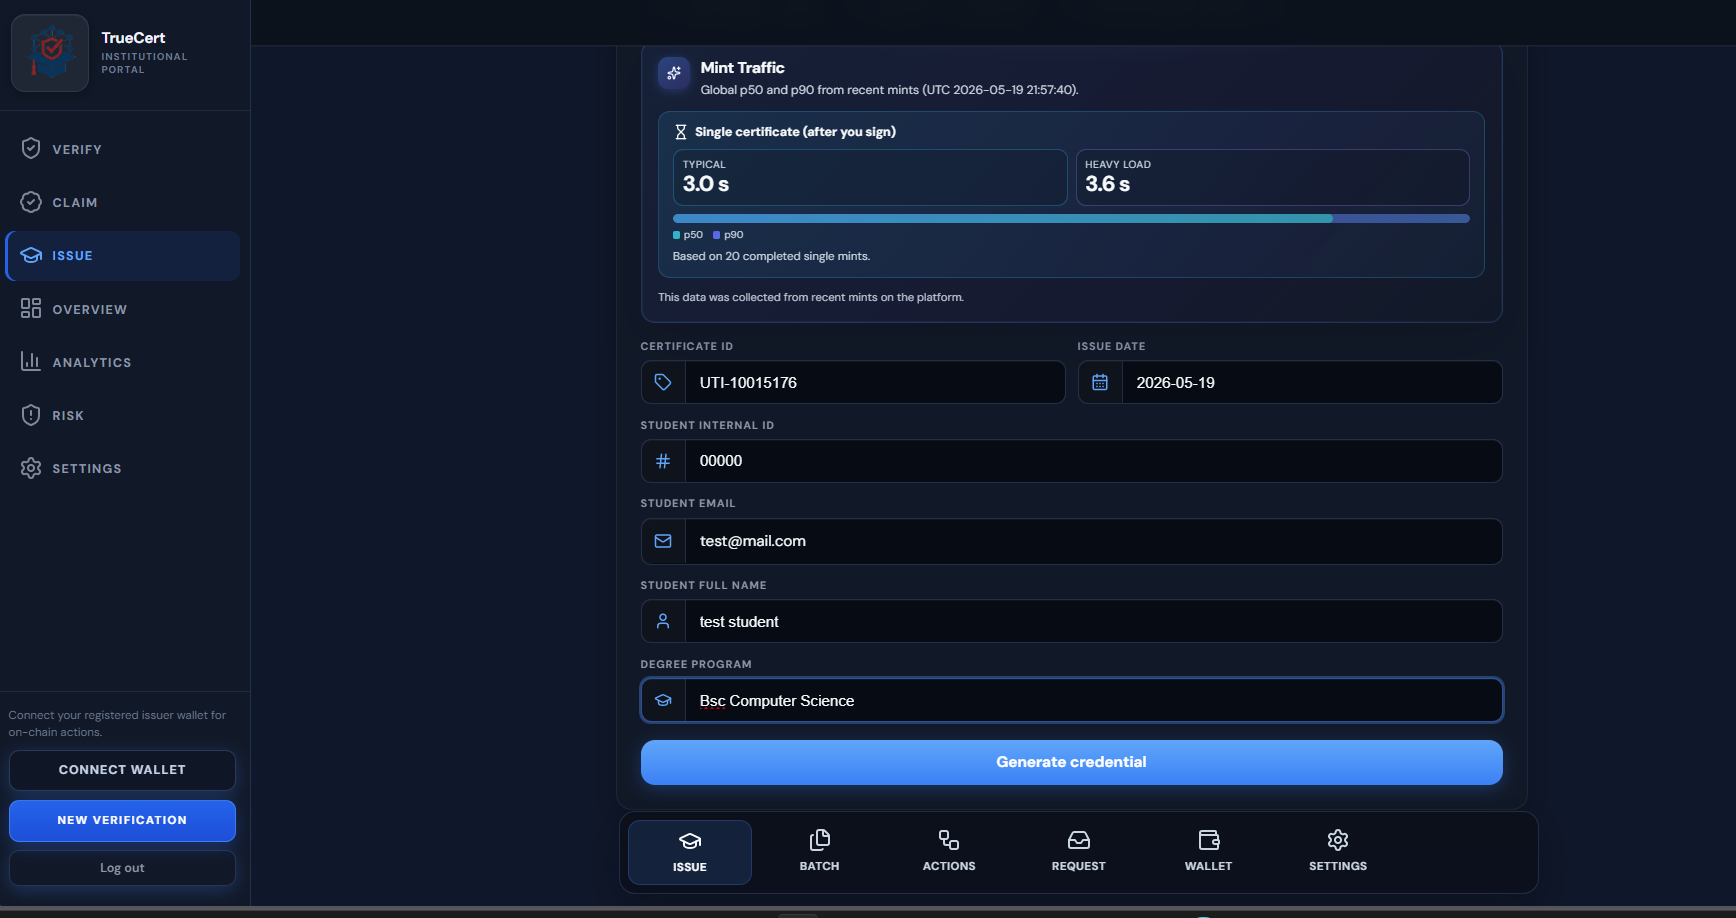
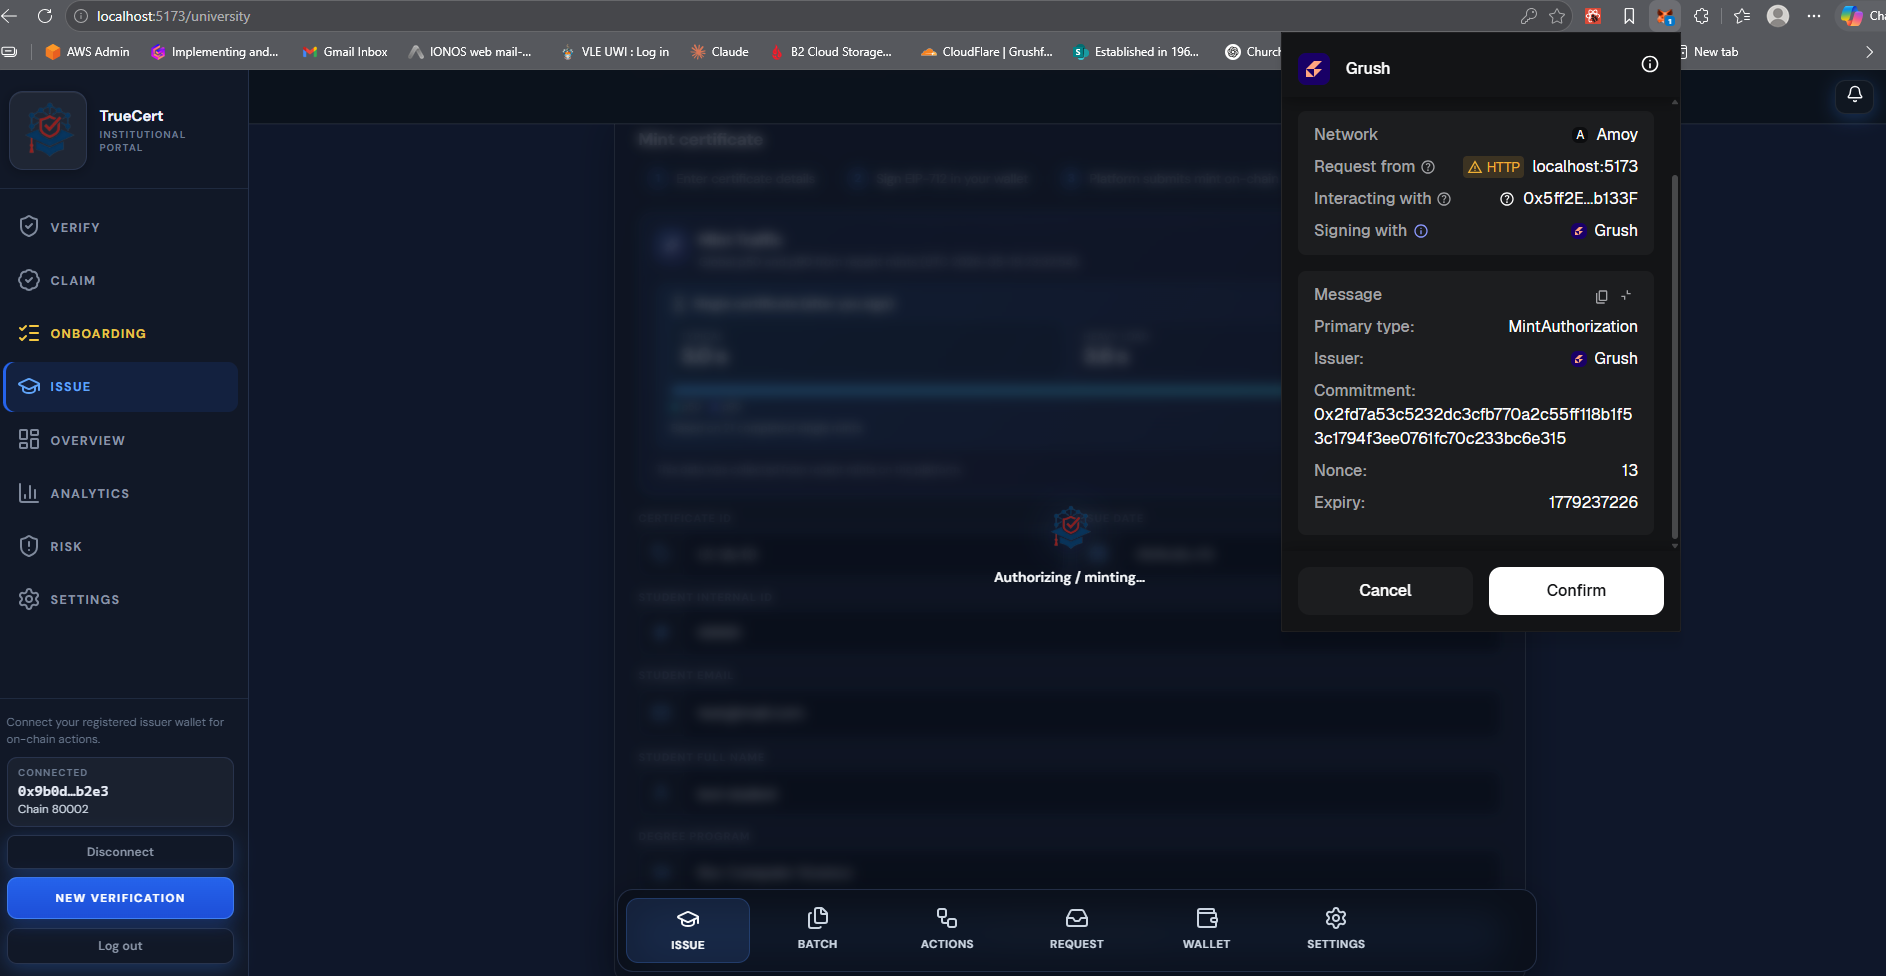
onboarding update

diff --git a/frontend/src/components/Layout.tsx b/frontend/src/components/Layout.tsx
@@ -317,6 +317,21 @@ export function Layout() {
 
         <nav className="app-sidebar__nav" aria-label="Primary">
           <ul className="app-sidebar__list">
+            <li>
+              <NavLink
+                to="/onboarding"
+                className={({ isActive }) => onboardingNavClass(isActive)}
+                onClick={() => setSidebarOpen(false)}
+              >
+                <span className="app-sidebar__icon" aria-hidden>
+                  <ListChecks />
+                </span>
+                <span className="app-sidebar__label-group">
+                  <span className="app-sidebar__label">Onboarding</span>
+                  <span className="app-sidebar__onboarding-tag">New users</span>
+                </span>
+              </NavLink>
+            </li>
             {role !== "admin" && (
               <>
                 <li>
@@ -333,18 +348,6 @@ export function Layout() {
                       <BadgeCheck />
                     </span>
                     <span className="app-sidebar__label">Claim</span>
-                  </NavLink>
-                </li>
-                <li>
-                  <NavLink
-                    to="/onboarding"
-                    className={({ isActive }) => onboardingNavClass(isActive)}
-                    onClick={() => setSidebarOpen(false)}
-                  >
-                    <span className="app-sidebar__icon" aria-hidden>
-                      <ListChecks />
-                    </span>
-                    <span className="app-sidebar__label">Onboarding</span>
                   </NavLink>
                 </li>
               </>
@@ -484,18 +487,6 @@ export function Layout() {
                       <ShieldAlert />
                     </span>
                     <span className="app-sidebar__label">Risk</span>
-                  </NavLink>
-                </li>
-                <li>
-                  <NavLink
-                    to="/onboarding"
-                    className={({ isActive }) => onboardingNavClass(isActive)}
-                    onClick={() => setSidebarOpen(false)}
-                  >
-                    <span className="app-sidebar__icon" aria-hidden>
-                      <ListChecks />
-                    </span>
-                    <span className="app-sidebar__label">Onboarding</span>
                   </NavLink>
                 </li>
               </>

diff --git a/frontend/src/pages/OnboardingPage.tsx b/frontend/src/pages/OnboardingPage.tsx
@@ -218,8 +218,7 @@ export function OnboardingPage() {
                 <div className="onboarding-step__detail">
                   <ol className="onboarding-step__list onboarding-step__list--ordered">
                     <li>
-                      <Link to="/login">Log in</Link> with your admin account (<code>BOOTSTRAP_ADMIN_EMAIL</code> from
-                      backend <code>.env</code> on first deploy).
+                      <Link to="/login">Log in</Link> with your admin account default admin email and password(email:admin@examplecom + password:change-me).
                     </li>
                     <li>
                       Open <Link to="/admin">Admin queue</Link>, review the pending institution, and click{" "}
@@ -257,14 +256,7 @@ export function OnboardingPage() {
                 </div>
               )}
 
-              {step.id === "metrics" && (
-                <div className="onboarding-step__detail">
-                  <p className="muted-inline small">
-                    Open <Link to="/university/analytics">Analytics</Link> for mint volume charts, timing heatmaps, and
-                    recent activity. Useful for demos and operational review after your first mints.
-                  </p>
-                </div>
-              )}
+            
 
               {step.id === "actions" && (
                 <div className="onboarding-step__detail">

diff --git a/frontend/src/App.css b/frontend/src/App.css
@@ -285,6 +285,37 @@ body {
   color: #ffe08a;
 }
 
+.app-sidebar__label-group {
+  display: flex;
+  flex-direction: column;
+  align-items: flex-start;
+  gap: 0.2rem;
+  min-width: 0;
+}
+
+.app-sidebar__onboarding-tag {
+  display: inline-block;
+  padding: 0.12rem 0.45rem;
+  border-radius: 999px;
+  font-size: 0.62rem;
+  font-weight: 700;
+  letter-spacing: 0.02em;
+  text-transform: none;
+  color: #1a1408;
+  background: linear-gradient(135deg, #f5d76a, #e8c547);
+  border: 1px solid rgba(255, 224, 138, 0.45);
+  line-height: 1.2;
+}
+
+.app-sidebar__link--onboarding:hover .app-sidebar__onboarding-tag {
+  background: linear-gradient(135deg, #ffe08a, #f5d76a);
+}
+
+.app-sidebar__link--onboarding-active .app-sidebar__onboarding-tag {
+  color: #1a1408;
+  background: #ffe08a;
+}
+
 .app-sidebar__footer {
   padding: 1rem 0.85rem 1.25rem;
   border-top: 1px solid rgba(58, 74, 110, 0.35);
